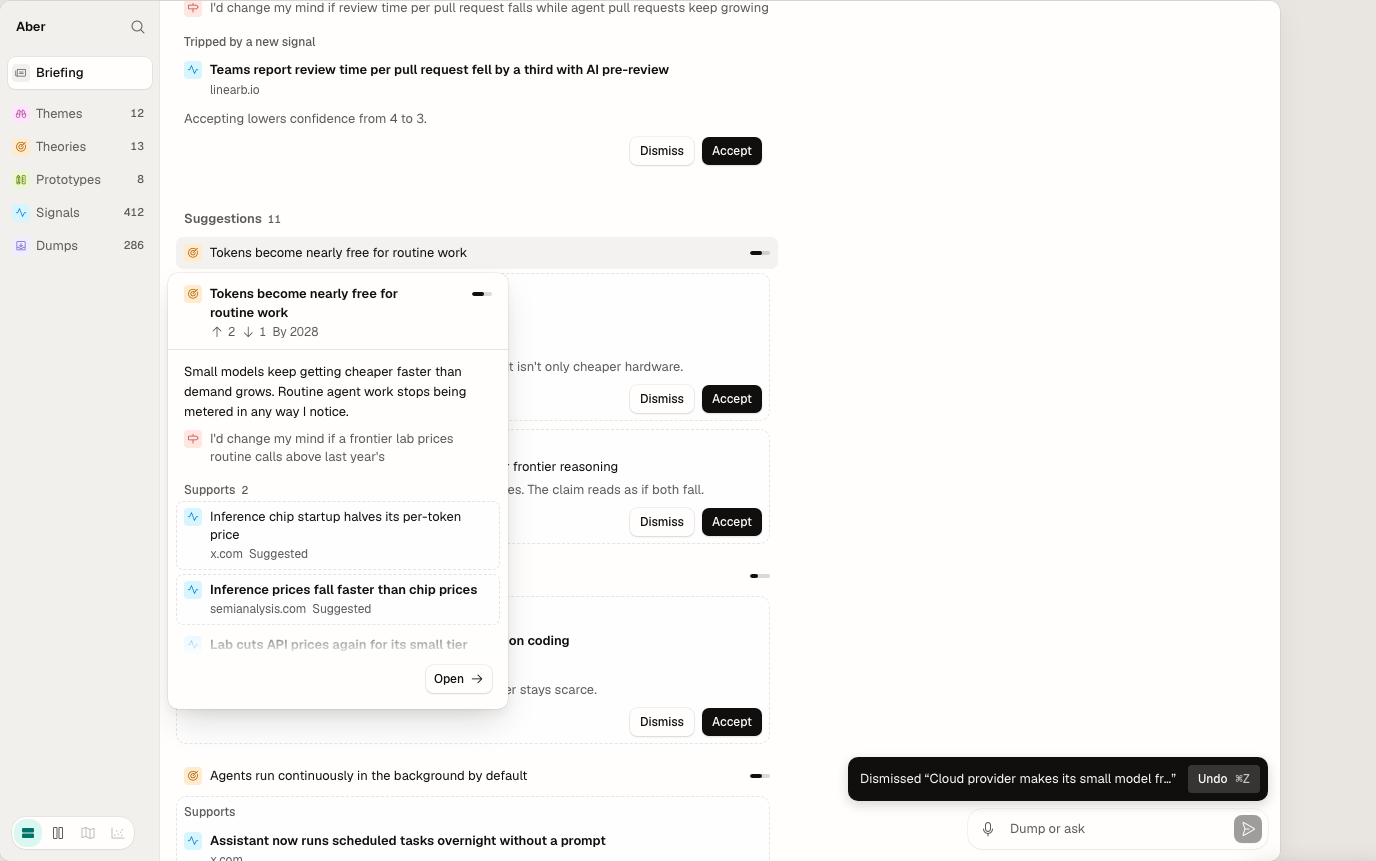
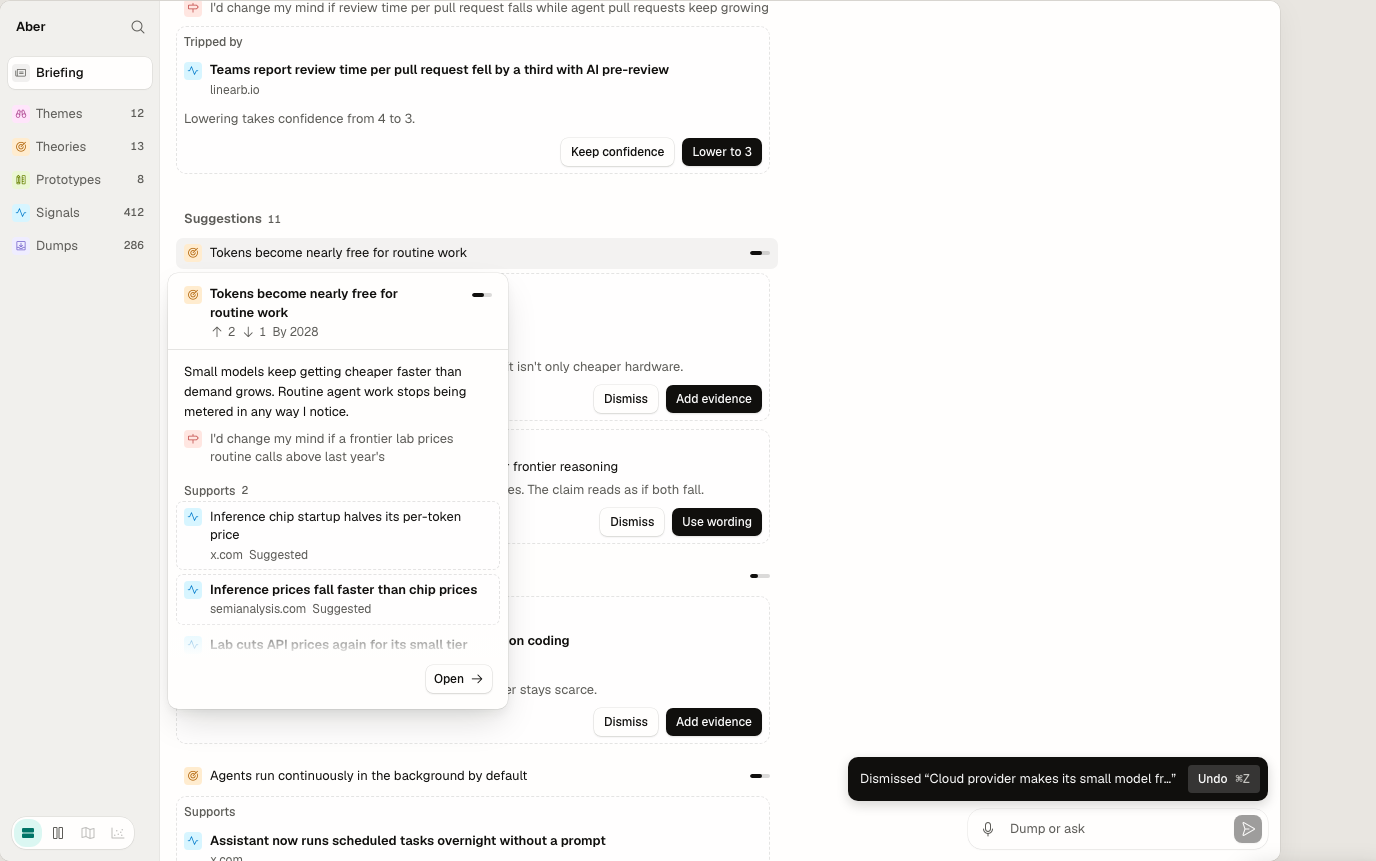
Grammar 08: spacing to the decided rules
Challenge decisions sit in one dashed block with the signal, the consequence
and the buttons; a choice between generic and verb button labels.

diff --git a/design/grammar/08-briefing/index.html b/design/grammar/08-briefing/index.html
@@ -38,11 +38,12 @@
 
 <div class="decide">
   <div class="decide-box">
-    <h2>Decide here: 3 open choices</h2>
+    <h2>Decide here: 4 open choices</h2>
     <ol>
       <li><a href="#c-group">New signals grouped by theme, or by the theory they bear on</a><span class="why">I'd pick A, by theme: it matches the Themes list and the way you browse. B puts news beside your claims but scatters a theme across several groups and needs a "No theory yet" bucket.</span></li>
       <li><a href="#c-settle">After you decide, the item leaves with an Undo toast, or settles to one line in place</a><span class="why">I'd pick A, leaves: Briefing empties as you work, which is the point, and it follows 10 States (a toast when something leaves the screen). B is calmer for a long run of decisions and keeps a visible trail.</span></li>
       <li><a href="#c-seen">When a new signal counts as seen</a><span class="why">I'd pick A, once Briefing has shown it: the weight goes after one look, like an inbox. B only clears it when you peek or open the signal, or press Mark seen on its group.</span></li>
+      <li><a href="#c-labels">Decision buttons say Dismiss | Accept, or what they do</a><span class="why">I'd pick B, verbs: "Keep confidence | Lower to 3" can't be misread, and every pair still reads no on the left, yes on the right. It amends DI-009's labels, so it needs your call.</span></li>
     </ol>
     <h2 class="decided-h">Proposed here, following decided rules (not open)</h2>
     <ul class="decided">
@@ -51,6 +52,7 @@
       <li><b>Decisions wait; news expires.</b> Challenges, suggestions and drafts stay until handled. Signals and dumps are only what arrived since you last looked.</li>
       <li><b>Decisions show in full; news folds.</b> Dismiss | Accept are always visible, never on hover, never an X.</li>
       <li><b>Every decision has Undo.</b> Today none do.</li>
+      <li><b>A decision's buttons sit inside the one dashed block they decide.</b> A challenge's block holds only the signal that tripped it, the consequence and the buttons; the theory and its tripwire sit above it as the subject.</li>
     </ul>
   </div>
 </div>
@@ -90,8 +92,8 @@
     <li><b>Decisions wait; news expires.</b> Pending decisions stay until handled, however old. Signals and dumps show only what arrived since you last looked.</li>
     <li><b>Summary before detail.</b> One sentence counts what needs you and what arrived, names the busiest theme and any failure. Decisions show in full, because they're the work. News folds: a group of three or fewer shows its rows, and a bigger one folds to its label and count.</li>
     <li><b>Grouped by the object a change touches.</b> A theory's suggestions sit under its row, one block each, and a challenge sits under the theory it trips. One theory with three proposals is one group, not three cards.</li>
-    <li><b>Every item is a 06 component.</b> Rows peek and open. A challenge is the tripwire line plus its block. A suggestion is a dashed block whose label names the relation (Supports, Undermines, New wording, Merge with). A draft is a dashed block with where it came from. An automatic merge is one signal row naming both sources, with Unmerge on hover. No dots, badges, per-item cards or type words.</li>
-    <li><b>Act in place.</b> Dismiss | Accept (Discard for drafts) sit at the bottom right of every decision, always visible. Accept solidifies the item: the dash goes, then it leaves. Every decision can be undone with a toast and ⌘Z. Keys: J and K move, A accepts, O peeks, ⌘Z undoes. There's no key for Dismiss.</li>
+    <li><b>Every item is a 06 component.</b> Rows peek and open. A challenge is its theory and tripwire line, then a dashed block holding only what's decided: the signal that tripped it, the consequence in words, and the buttons. A suggestion is a dashed block whose label names the relation (Supports, Undermines, New wording, Merge with). A draft is a dashed block with where it came from. An automatic merge is one signal row naming both sources, with Unmerge on hover. No dots, badges, per-item cards or type words.</li>
+    <li><b>Act in place.</b> The buttons sit at the bottom right inside the dashed block they decide, always visible, and act on that block alone (labels: choice 4). Accept solidifies the item: the dash goes, then it leaves. Every decision can be undone with a toast and ⌘Z. Keys: J and K move, A accepts, O peeks, ⌘Z undoes. There's no key for Dismiss.</li>
     <li><b>Seen is unread weight and nothing else.</b> An unseen signal's name, and the label of a folded group holding one, are ink at 600. Peeking or opening a signal marks it seen.</li>
     <li><b>Failures in words, first.</b> A dump that couldn't be read leads the Dumps section, says why, and has Retry. The summary names it. Work in progress says Processing with the Working spinner.</li>
     <li><b>Handled is quiet.</b> A section with nothing left disappears. When no decisions remain, the sentence says "Nothing needs you." and the news stays. With nothing new at all, the page says "Nothing new since 18:40" and drops the key line. Nothing celebrates.</li>
@@ -109,7 +111,7 @@
       <button type="button" data-day="clear" aria-pressed="false">Caught up</button>
     </div>
     <button type="button" class="reset" data-reset>Reset</button>
-    <span class="hint">Choices follow the recommended options: by theme, leaves with Undo, seen once shown.</span>
+    <span class="hint">Choices follow the recommended options: by theme, leaves with Undo, seen once shown, verb labels.</span>
   </div>
   <div class="br8-host" id="hero" data-br='{"day":"busy","h":860}'></div>
 </section>
@@ -144,6 +146,16 @@
   </div>
 </section>
 
+<section class="jig-section wide" id="c-labels" data-decision="labels" data-question="4. What do a decision's buttons say?" data-default="B Verbs">
+  <p class="lede">The same busy morning, with the challenges first. Read down a few decisions in each window: a challenge, a support, the new wording, the merge, a draft.</p>
+  <div class="jig-compare" style="--jig-min:100%">
+    <div class="jig-option" data-option="A Dismiss | Accept"><div class="jig-label"><b>A</b> Dismiss | Accept everywhere (Discard | Accept on drafts)</div><p class="jig-note">One pair to learn; the block's last sentence says what Accept does ("Accepting lowers confidence from 4 to 3").</p>
+      <div class="br8-host" data-option-stage data-br='{"day":"busy","h":640,"opt":{"labels":"generic"}}'></div></div>
+    <div class="jig-option" data-option="B Verbs"><div class="jig-label"><b>B</b> What each button does</div><p class="jig-note">Challenge: Keep confidence | Lower to 3. Evidence: Dismiss | Add evidence. Wording: Dismiss | Use wording. Merge: Keep apart | Merge. Draft: Discard | Keep. A still presses the right-hand button.</p>
+      <div class="br8-host" data-option-stage data-br='{"day":"busy","h":640,"opt":{"labels":"verb"}}'></div></div>
+  </div>
+</section>
+
 <section class="jig-section" id="spec">
   <h2>For RULES.md</h2>
   <p class="lede">Added to RULES.md as "08 Briefing — PROPOSED".</p>
@@ -154,14 +166,14 @@
 3. Decisions wait; news expires. Pending decisions stay until handled; signals and dumps are only what arrived since you last looked.
 4. Summary before detail: one sentence counts what needs you and what arrived, names the busiest theme and any failure. Decisions show in full; a news group of three or fewer shows its rows, larger ones fold to label and count.
 5. Grouped by the object a change touches: a theory's row, then its suggestion blocks; a challenge under the theory it trips.
-6. Only 06 components: rows peek and open; challenge = tripwire line + block; suggestion = dashed block labelled by relation (Supports, Undermines, New wording, Merge with); draft = dashed block with provenance; automatic merge = one row naming both sources, Unmerge on hover.
-7. Act in place: Dismiss | Accept (Discard for drafts), bottom right, always visible. Accept solidifies, then the item leaves; every decision has Undo (toast, ⌘Z). Keys J / K, A, O, ⌘Z; no key for Dismiss.
+6. Only 06 components: rows peek and open; challenge = theory row and tripwire line (the subject), then a dashed block of only the signal, the consequence and the buttons; suggestion = dashed block labelled by relation (Supports, Undermines, New wording, Merge with); draft = dashed block with provenance; automatic merge = one row naming both sources, Unmerge on hover.
+7. Act in place: the buttons sit bottom right inside the dashed block they decide, always visible, acting on that block alone. Accept solidifies, then the item leaves; every decision has Undo (toast, ⌘Z). Keys J / K, A, O, ⌘Z; no key for Dismiss.
 8. Seen is unread weight only: an unseen signal, and a folded group holding one, are ink at 600. Peek or open marks a signal seen.
 9. Failures in words, first in Dumps, named in the summary, with Retry. Work in progress says Processing with the Working spinner.
 10. Handled is quiet: empty sections go; "Nothing needs you." while news remains; "Nothing new since 18:40" with no key line when nothing is new.
 11. Narrow: Briefing alone; the rail is a sheet from the left; the composer spans the window.
 
-Open: signals by theme (A) or by theory (B); a decided item leaves with Undo (A) or settles in place (B); a signal is seen once shown (A) or when read (B).</pre>
+Open: signals by theme (A) or by theory (B); a decided item leaves with Undo (A) or settles in place (B); a signal is seen once shown (A) or when read (B); buttons read Dismiss | Accept (A) or what they do (B, recommended).</pre>
 </section>
 
 </body>

diff --git a/design/grammar/08-briefing/briefing.js b/design/grammar/08-briefing/briefing.js
@@ -62,7 +62,11 @@
   };
 
   /* ═══ Items. Every decision is 06's attached block; its object rows peek and open like rows anywhere ═══ */
-  const decide = (d, no = "Dismiss") => `<div class="ob-decide"><button type="button" class="nv-btn secondary" data-act="no">${no}</button><button type="button" class="nv-btn primary" data-act="yes" data-key="A">Accept</button></div>`;
+  // Button labels (choice 4): generic Dismiss | Accept, or verbs where a generic label leaves you guessing what happens
+  const verbs = d => d.kind === "challenge" ? ["Keep confidence", `Lower to ${Math.max(1, O[d.theory].c - 1)}`]
+    : d.kind === "draft" ? ["Discard", "Keep"] : d.as === "New wording" ? ["Dismiss", "Use wording"] : d.as === "Merge with" ? ["Keep apart", "Merge"] : ["Dismiss", "Add evidence"];
+  const decide = (st, d) => { const [no, yes] = st.opt.labels === "verb" ? verbs(d) : [d.kind === "draft" ? "Discard" : "Dismiss", "Accept"];
+    return `<div class="ob-decide"><button type="button" class="nv-btn secondary" data-act="no">${no}</button><button type="button" class="nv-btn primary" data-act="yes">${yes}</button></div>`; };
   const settled = (st, d, name) => { const v = st.decided.get(d.id).v;
     const word = v === "accept" ? "Accepted" : d.kind === "draft" ? "Discarded" : "Dismissed";
     return `<div class="br8-settled" data-item="${d.id}" role="status"><span class="w">${word}</span><span class="q">${esc(name)}</span><button type="button" class="nv-btn quiet" data-act="undo">Undo</button></div>`; };
@@ -71,14 +75,15 @@
   const challenge = (st, d) => {
     const t = O[d.theory], s = O[d.signal];
     if (st.decided.has(d.id)) return `<div class="ob-rows br8-g">${row(t, { omit: "when" })}${settled(st, d, s.name)}</div>`;
-    return `<div class="ob-rows br8-g">${row(t, { omit: "when" })}
-      <div class="ob-trip tripped br8-item" data-item="${d.id}" tabindex="-1"><div class="ob-attach lg">${tile("tripwire", ICON.tripwire)}<p class="ob-prose">${t.trip}</p></div>
-        <div class="ob-block"><div class="ob-blabel">Tripped by a new signal</div>${row(s, { omit: "when" })}<p class="ob-why-t">Accepting lowers confidence from ${t.c} to ${Math.max(1, t.c - 1)}.</p>${decide(d)}</div></div></div>`;
+    // The subject (the theory and its tripwire) sits above; the dashed block holds only what's decided: the signal, the consequence, the buttons
+    const why = st.opt.labels === "verb" ? `Lowering takes confidence from ${t.c} to ${Math.max(1, t.c - 1)}.` : `Accepting lowers confidence from ${t.c} to ${Math.max(1, t.c - 1)}.`;
+    return `<div class="ob-rows br8-g br8-ch">${row(t, { omit: "when" })}<div class="ob-attach lg">${tile("tripwire", ICON.tripwire)}<p class="ob-prose">${t.trip}</p></div>
+      <div class="ob-block sug br8-item" data-item="${d.id}" tabindex="-1"><div class="ob-blabel">Tripped by</div>${row(s, { omit: "when" })}<p class="ob-why-t">${why}</p>${decide(st, d)}</div></div>`;
   };
   const sugBlock = (st, d) => {
     if (st.decided.has(d.id)) return settled(st, d, nameOf(d));
     const body = d.signal ? row(O[d.signal], { omit: "when" }) : d.other ? row(O[d.other], { omit: "when" }) : `<p class="br8-words">${d.text}</p>`;
-    return `<div class="ob-block sug br8-item" data-item="${d.id}" tabindex="-1"><div class="ob-blabel">${d.as}</div>${body}<p class="ob-why-t">${d.why}</p>${decide(d)}</div>`;
+    return `<div class="ob-block sug br8-item" data-item="${d.id}" tabindex="-1"><div class="ob-blabel">${d.as}</div>${body}<p class="ob-why-t">${d.why}</p>${decide(st, d)}</div>`;
   };
   // Suggestions are grouped by the object they would change: one row for the theory, its proposals under it
   const suggestions = (st, xs) => {
@@ -87,7 +92,7 @@
   };
   const draft = (st, d) => {
     if (st.decided.has(d.id)) return settled(st, d, nameOf(d));
-    return `<div class="ob-block sug br8-item" data-item="${d.id}" tabindex="-1">${row(O[d.obj], { omit: "key when" })}<p class="ob-why-t">${d.why}</p>${decide(d, "Discard")}</div>`;
+    return `<div class="ob-block sug br8-item" data-item="${d.id}" tabindex="-1">${row(O[d.obj], { omit: "key when" })}<p class="ob-why-t">${d.why}</p>${decide(st, d)}</div>`;
   };
 
   // New signals: folded groups (06's list fold), by theme or by the theory they bear on (choice 1). Three or fewer show; more fold to their count.
@@ -233,7 +238,7 @@
   /* ═══ Init ═══ */
   const init = host => {
     const o = JSON.parse(host.dataset.br || "{}");
-    const st = host._st = { _host: host, day: o.day || "quiet", h: o.h, opt: { group: "theme", settle: "leave", seen: "shown", ...(o.opt || {}) }, decided: new Map(), seen: new Set(), open: {}, unmerged: new Set(), dumps: {}, mode: "brief", narrow: false, railOpen: false, full: null, peek: null };
+    const st = host._st = { _host: host, day: o.day || "quiet", h: o.h, opt: { group: "theme", settle: "leave", seen: "shown", labels: "verb", ...(o.opt || {}) }, decided: new Map(), seen: new Set(), open: {}, unmerged: new Set(), dumps: {}, mode: "brief", narrow: false, railOpen: false, full: null, peek: null };
     const measure = () => { const n = host.clientWidth < NARROW; if (n !== st.narrow) { st.narrow = n; st.railOpen = false; if (st.mode === "brief") render(host); } fit(host); };
     st.narrow = host.clientWidth > 0 && host.clientWidth < NARROW; render(host); new ResizeObserver(measure).observe(host);
 

diff --git a/design/grammar/08-briefing/briefing.css b/design/grammar/08-briefing/briefing.css
@@ -16,7 +16,9 @@
 .br8-sec > .br8-g + .br8-g { margin-top: calc(var(--gap-group) - var(--gap-tight)); }
 .br8-g > .ob-row + :is(.br8-item, .br8-settled) { margin-top: var(--gap-tight); }
 .br8-g > :is(.br8-item, .br8-settled) + :is(.br8-item, .br8-settled) { margin-top: var(--gap-item); }
-.br8-g > .ob-trip { gap: var(--gap-item); }
+/* A challenge: the theory and its tripwire are the subject (4 apart, one unit); the dashed block holding the decision sits a sibling step (8) below */
+.br8-ch > .ob-attach { margin-top: var(--gap-tight); }
+.br8-ch > .ob-attach + .ob-block { margin-top: var(--gap-item); }
 
 /* A proposed wording sits where a row's name would: ink, body size, wraps */
 .br8-words { margin: 0 0 0 var(--inset-row); max-width: var(--measure); line-height: var(--lh-ui); color: var(--ink); text-wrap: pretty; }
@@ -25,12 +27,10 @@
 .br8-item { border-radius: var(--r-box); scroll-margin: 24px; }
 .br8-item:focus { outline: 0; }
 .br8-item:focus-visible, .br8-item:focus:not(:focus-visible):not(:has(:focus)) { outline: 2px solid var(--focus); outline-offset: 2px; }
-.ob-trip.br8-item { margin-left: calc((var(--hang) + var(--inset-row)) * -1); padding-left: calc(var(--hang) + var(--inset-row)); }
-.ob-trip.br8-item > .ob-block { max-width: calc(560px + var(--hang) + var(--inset-row)); }
 
 /* Accept solidifies in place (10 rule 8): the dash and the draft fill go, then the item leaves */
 .br8-item.ob-block.sug { transition: outline-color var(--t-float) var(--ease-out), background-color var(--t-float) var(--ease-out); }
-.br8-item.is-accepted, .br8-item.is-accepted .ob-block { outline-color: transparent; background: transparent; }
+.br8-item.is-accepted { outline-color: transparent; background: transparent; }
 .br8-item.is-accepted .g.draft { outline-color: transparent; background: var(--type-tile); }
 .br8-item.is-accepted .ob-row.draft > .nm { color: var(--ink); transition: color var(--t-float) var(--ease-out); }
 

diff --git a/design/grammar/RULES.md b/design/grammar/RULES.md
@@ -447,14 +447,14 @@ Evidence (`app/web/src/ui/briefing-app.tsx`, `.css`): every item is a raised car
 3. **Decisions wait; news expires.** Pending decisions stay until handled, however old; signals and dumps are only what arrived since you last looked.
 4. **Summary before detail.** One sentence counts what needs you and what arrived, and names the busiest theme and any failure. Decisions show in full. A news group of three or fewer shows its rows; a larger one folds to its label and count (06's fold label, caret in the tile column).
 5. **Grouped by the object a change touches.** A theory's row, then its suggestion blocks; a challenge under the theory it trips.
-6. **Only 06 components.** Rows peek and open. Challenge: the tripwire line, then a block "Tripped by a new signal" with the signal, the confidence change and Dismiss | Accept. Suggestion: a dashed block labelled by relation (Supports, Undermines, New wording, Merge with), the proposal, why, Dismiss | Accept. Draft: a dashed block with the draft row and where it came from, Discard | Accept. Automatic merge: one signal row naming both sources, Unmerge on hover. No dots, badges, per-item cards or type words.
-7. **Act in place.** Dismiss | Accept sit bottom right, always visible, never on hover, never an X. Accept solidifies (the dash goes), then the item leaves; every decision has Undo (toast, ⌘Z). Keys: J / K move, A accepts, O peeks, ⌘Z undoes; no key for Dismiss.
+6. **Only 06 components.** Rows peek and open. Challenge: the theory row and its tripwire line are the subject; below them a dashed block holds only what is decided: "Tripped by", the signal, the consequence in words, and the buttons. Suggestion: a dashed block labelled by relation (Supports, Undermines, New wording, Merge with), the proposal, why, Dismiss | Accept. Draft: a dashed block with the draft row and where it came from, Discard | Accept. Automatic merge: one signal row naming both sources, Unmerge on hover. No dots, badges, per-item cards or type words.
+7. **Act in place.** The buttons sit bottom right inside the dashed block they decide and act on that block alone; always visible, never on hover, never an X. Accept solidifies (the dash goes), then the item leaves; every decision has Undo (toast, ⌘Z). Keys: J / K move, A accepts, O peeks, ⌘Z undoes; no key for Dismiss.
 8. **Seen is unread weight only.** An unseen signal's name, and the label of a folded group holding one, are ink at 600. Peeking or opening a signal marks it seen.
 9. **Failures in words, first.** A dump that couldn't be read leads Dumps, says why, has Retry, and is named in the summary. Work in progress says Processing with the Working spinner.
 10. **Handled is quiet.** An empty section goes. With no decisions left the sentence reads "Nothing needs you." and the news stays; with nothing new, "Nothing new since 18:40" and no key line. No celebration.
 11. **Narrow:** Briefing alone; the rail is a sheet from the left; the composer spans the window.
 
-**Open (choices on the jig):** new signals grouped A by theme (recommended) or B by the theory they bear on; a decided item A leaves with an Undo toast (recommended) or B settles to one line in place until you leave; a signal counts as seen A once Briefing has shown it (recommended) or B only when peeked, opened or marked seen.
+**Open (choices on the jig):** new signals grouped A by theme (recommended) or B by the theory they bear on; a decided item A leaves with an Undo toast (recommended) or B settles to one line in place until you leave; a signal counts as seen A once Briefing has shown it (recommended) or B only when peeked, opened or marked seen; buttons read A Dismiss | Accept, or B what they do (recommended: Keep confidence | Lower to 3, Dismiss | Add evidence, Dismiss | Use wording, Keep apart | Merge, Discard | Keep), which would amend DI-009.
 
 ## 07 Moving between levels — PROPOSED (jig `07-rungs/`)
 
